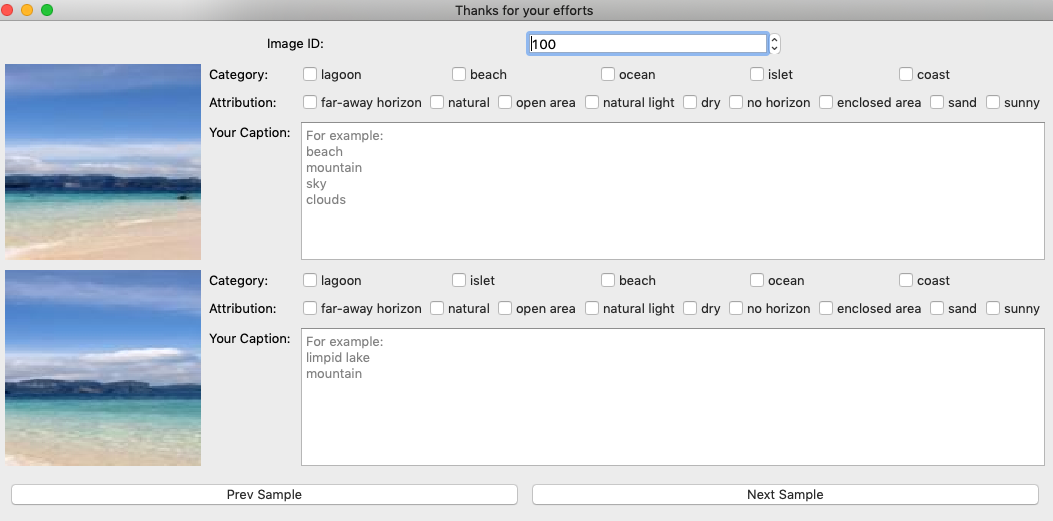
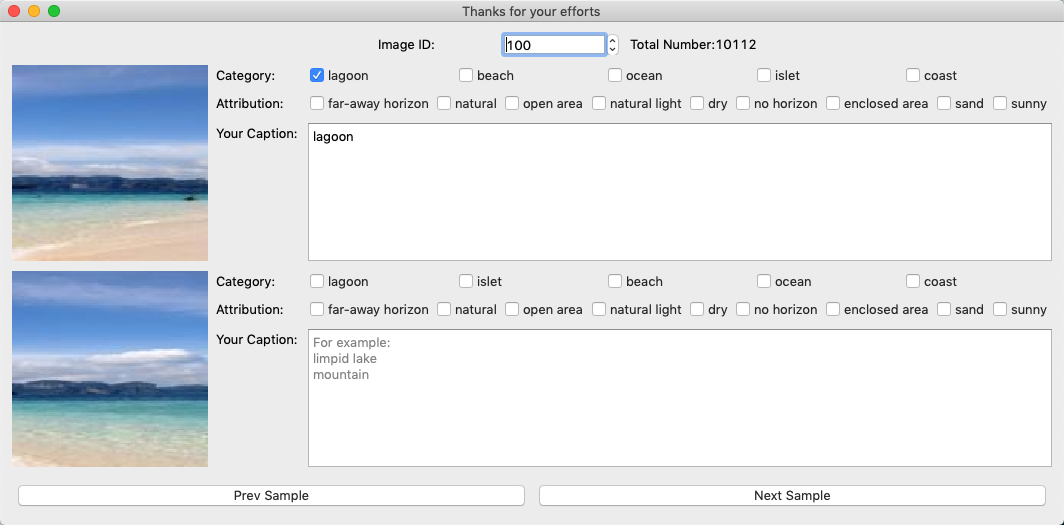
...

diff --git a/main.py b/main.py
@@ -45,7 +45,7 @@ class GridLayout(QtWidgets.QMainWindow):
         #the top part
         top_layout = QHBoxLayout()
 
-        top_layout.addWidget(QtWidgets.QLabel(' '*50))
+        top_layout.addWidget(QtWidgets.QLabel(' '*100))
         top_layout.addWidget(QtWidgets.QLabel('Image ID:'))
         self.spinbox = QSpinBox(self)
         self.spinbox.setRange(0, self.data_len)                                                      # 1
@@ -53,7 +53,8 @@ class GridLayout(QtWidgets.QMainWindow):
         self.spinbox.setValue(100)
         self.spinbox.valueChanged.connect(self.value_change_func)
         top_layout.addWidget(self.spinbox)
-        top_layout.addWidget(QtWidgets.QLabel(' '*50))
+        top_layout.addWidget(QtWidgets.QLabel('Total Number:{}'.format(self.data_len+1)))
+        top_layout.addWidget(QtWidgets.QLabel(' '*80))
 
         #======================================
         index = self.spinbox.value()
